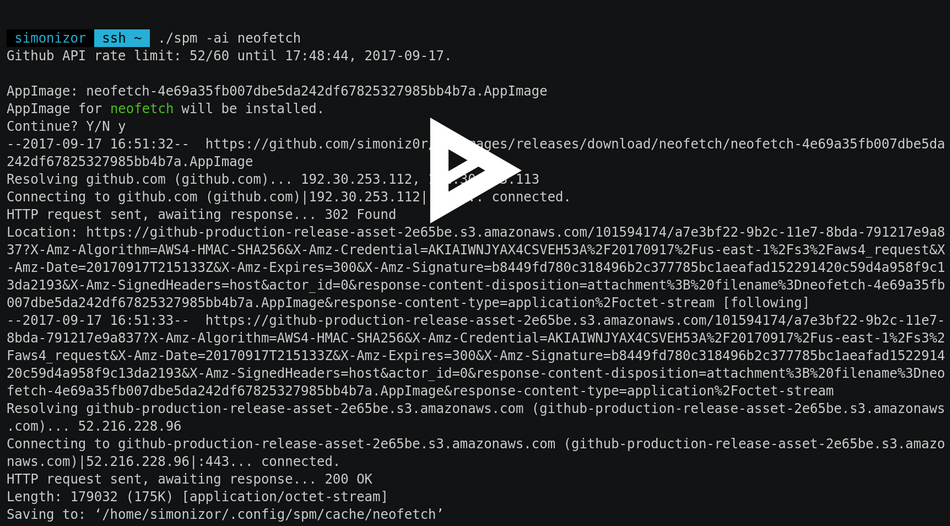
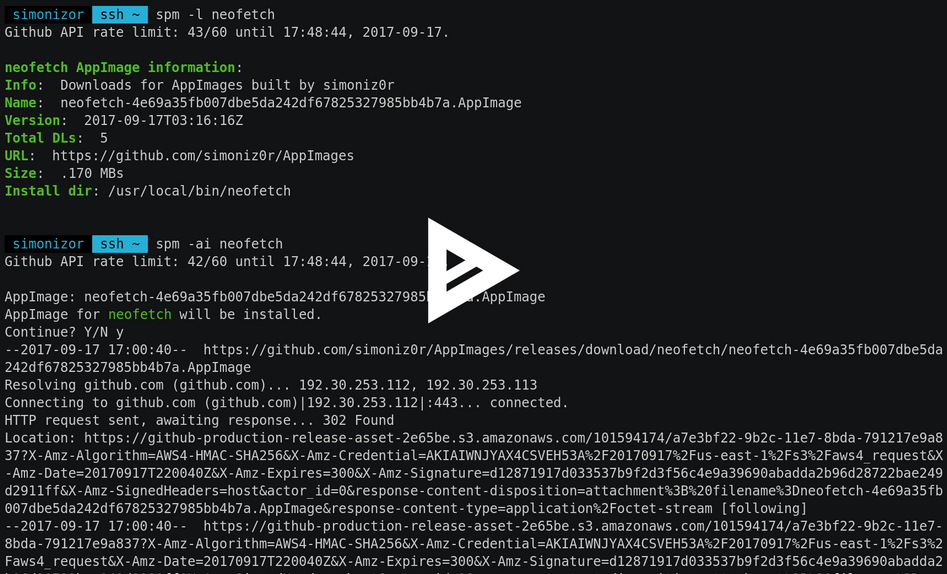
Update video preview

Changed region(s): [[0.0, 0.0, 1.0, 1.0]]

diff --git a/README.md b/README.md
@@ -1,6 +1,6 @@
 # spm
 
-[![asciicast](/spmvidpreview.png)](https://asciinema.org/a/EYdkmYcVnfjEHB4E9jRzhBHb8)
+[![asciicast](/spmvidpreview.png)](https://asciinema.org/a/6qRkMm4MOb1KKckv2546nZuaN)
 
 
 spm now has an AppImage release! To use the AppImage for spm, simply download it, `chmod a+x /path/to/spm-VERSION-x86_64.AppImage`, and execute `/path/to/spm-VERSION-x86_64.AppImage`.  The AppImage release for spm has wget bundled in.
